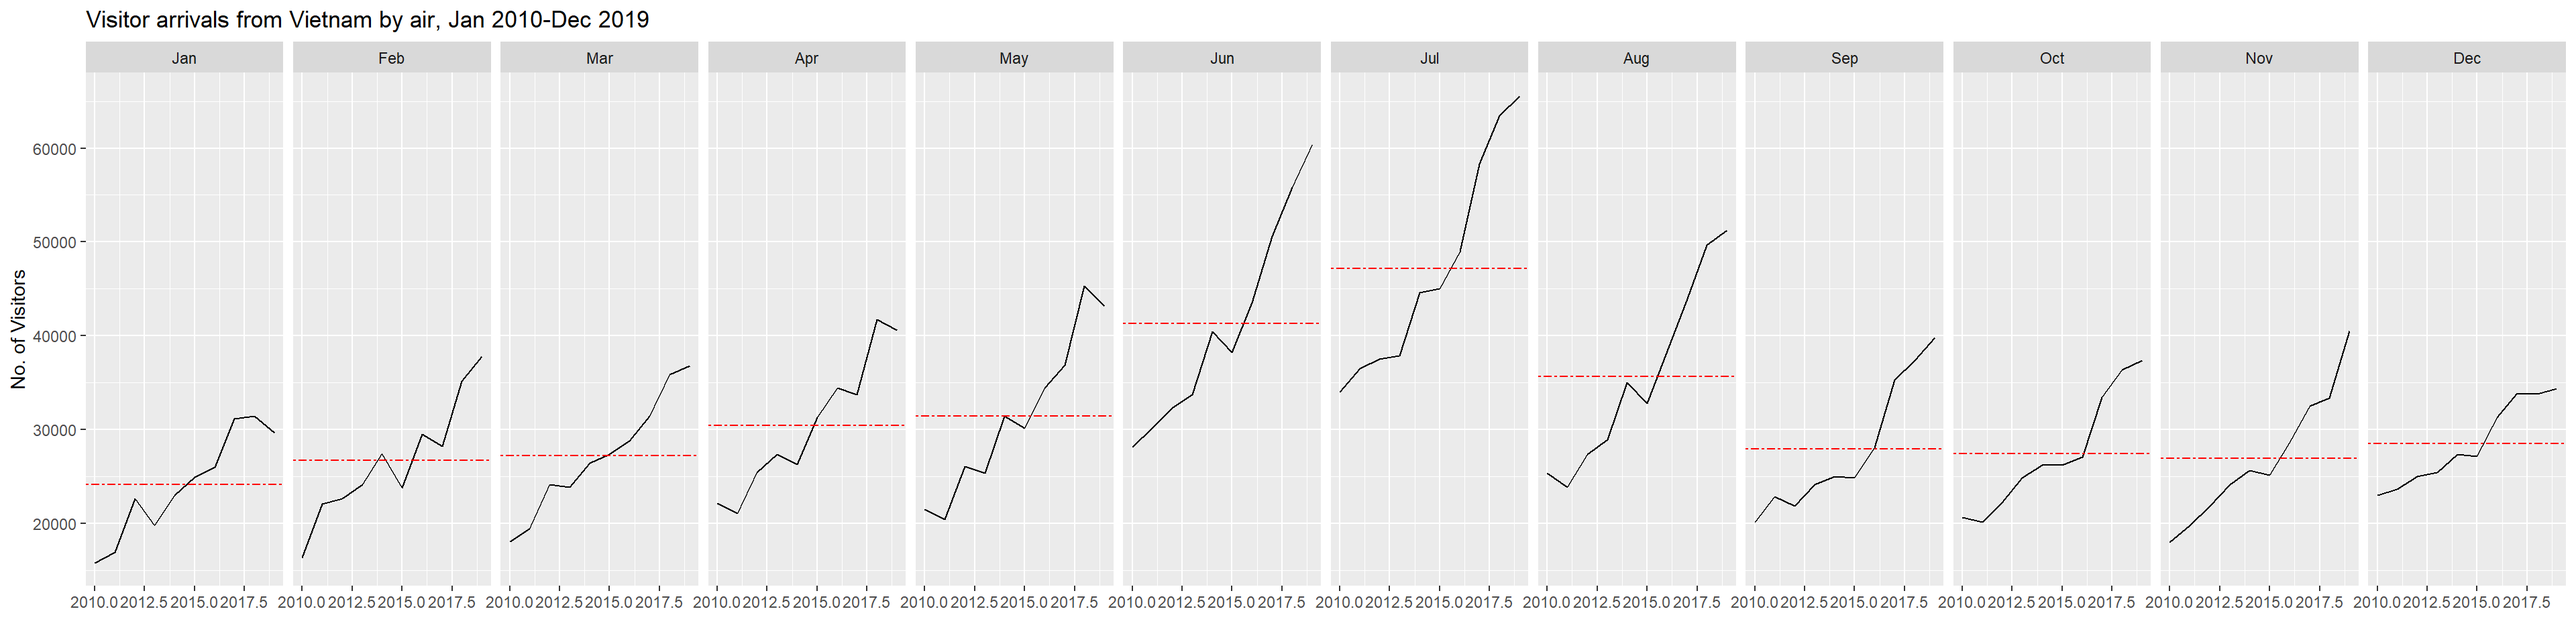
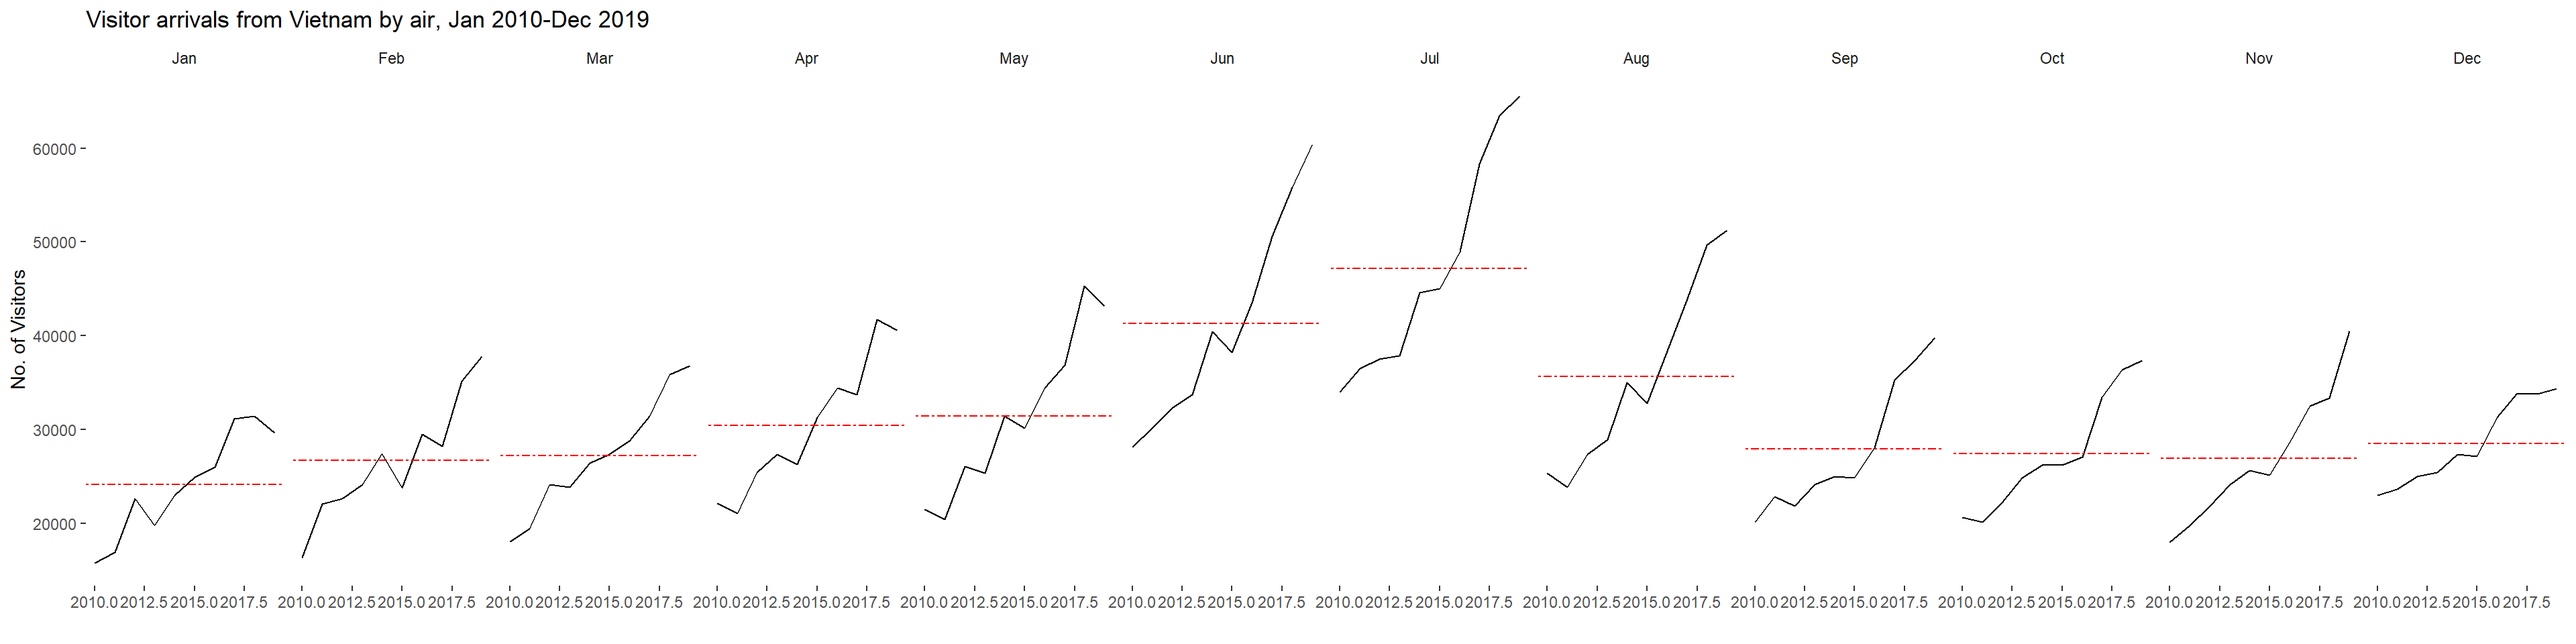
Edited graph and text

Changed region(s): [[0.0312, 0.0625, 1.0, 0.125]]

diff --git a/_site/Hands-on_Ex/Hands-on_Ex8/Hands-on_Ex8.html b/_site/Hands-on_Ex/Hands-on_Ex8/Hands-on_Ex8.html
@@ -554,7 +554,7 @@ Note
 <span id="cb8-4"><a href="#cb8-4" aria-hidden="true" tabindex="-1"></a>  <span class="fu">arrange</span>(<span class="fu">desc</span>(n))</span></code></pre></div><button title="Copy to Clipboard" class="code-copy-button"><i class="bi"></i></button></div>
 </div>
 <p>Step 2: Preparing the tidy data frame</p>
-<p>In this step, you are required to extract the attack records of the top 4 countries from <em>attacks</em> data frame and save the data in a new tibble data frame (i.e.&nbsp;<em>top4_attacks</em>).</p>
+<p>In this step, you are required to extract the attack records of the top 4 countries from attacks data frame and save the data in a new tibble data frame (i.e.&nbsp;top4_attacks).</p>
 <div class="cell">
 <div class="code-copy-outer-scaffold"><div class="sourceCode cell-code" id="cb9"><pre class="sourceCode r code-with-copy"><code class="sourceCode r"><span id="cb9-1"><a href="#cb9-1" aria-hidden="true" tabindex="-1"></a>top4 <span class="ot">&lt;-</span> attacks_by_country<span class="sc">$</span>source_country[<span class="dv">1</span><span class="sc">:</span><span class="dv">4</span>]</span>
 <span id="cb9-2"><a href="#cb9-2" aria-hidden="true" tabindex="-1"></a>top4_attacks <span class="ot">&lt;-</span> attacks <span class="sc">%&gt;%</span></span>
@@ -601,15 +601,15 @@ Note
 <p>In this section, you will learn how to plot a cycle plot showing the time-series patterns and trend of visitor arrivals from Vietnam programmatically by using ggplot2 functions.</p>
 <section id="step-1-data-import" class="level3">
 <h3 class="anchored" data-anchor-id="step-1-data-import">Step 1: Data Import</h3>
-<p>For the purpose of this hands-on exercise, <em>arrivals_by_air.xlsx</em> will be used.</p>
-<p>The code chunk below imports <em>arrivals_by_air.xlsx</em> by using <code>read_excel()</code> of <strong>readxl</strong> package and save it as a tibble data frame called <em>air</em>.</p>
+<p>For the purpose of this hands-on exercise, arrivals_by_air.xlsx will be used.</p>
+<p>The code chunk below imports arrivals_by_air.xlsx by using <code>read_excel()</code> of readxl package and save it as a tibble data frame called air.</p>
 <div class="cell">
 <div class="code-copy-outer-scaffold"><div class="sourceCode cell-code" id="cb11"><pre class="sourceCode r code-with-copy"><code class="sourceCode r"><span id="cb11-1"><a href="#cb11-1" aria-hidden="true" tabindex="-1"></a>air <span class="ot">&lt;-</span> <span class="fu">read_excel</span>(<span class="st">"data/arrivals_by_air.xlsx"</span>)</span></code></pre></div><button title="Copy to Clipboard" class="code-copy-button"><i class="bi"></i></button></div>
 </div>
 </section>
 <section id="step-2-deriving-month-and-year-fields" class="level3">
 <h3 class="anchored" data-anchor-id="step-2-deriving-month-and-year-fields">Step 2: Deriving month and year fields</h3>
-<p>Next, two new fields called <em>month</em> and <em>year</em> are derived from <em>Month-Year</em> field.</p>
+<p>Next, two new fields called <code>month</code> and <code>year</code> are derived from <code>Month-Year</code> field.</p>
 <div class="cell">
 <div class="code-copy-outer-scaffold"><div class="sourceCode cell-code" id="cb12"><pre class="sourceCode r code-with-copy"><code class="sourceCode r"><span id="cb12-1"><a href="#cb12-1" aria-hidden="true" tabindex="-1"></a>air<span class="sc">$</span>month <span class="ot">&lt;-</span> <span class="fu">factor</span>(<span class="fu">month</span>(air<span class="sc">$</span><span class="st">`</span><span class="at">Month-Year</span><span class="st">`</span>),</span>
 <span id="cb12-2"><a href="#cb12-2" aria-hidden="true" tabindex="-1"></a>                    <span class="at">levels=</span><span class="dv">1</span><span class="sc">:</span><span class="dv">12</span>,</span>
@@ -631,7 +631,7 @@ Note
 </section>
 <section id="step-5-computing-year-average-arrivals-by-month" class="level3">
 <h3 class="anchored" data-anchor-id="step-5-computing-year-average-arrivals-by-month">Step 5: Computing year average arrivals by month</h3>
-<p>The code chunk below uses <code>group_by()</code> and <code>summarise()</code> of <strong>dplyr</strong> to compute year average arrivals by month.</p>
+<p>The code chunk below uses <code>group_by()</code> and <code>summarise()</code> of dplyr to compute year average arrivals by month.</p>
 <div class="cell">
 <div class="code-copy-outer-scaffold"><div class="sourceCode cell-code" id="cb14"><pre class="sourceCode r code-with-copy"><code class="sourceCode r"><span id="cb14-1"><a href="#cb14-1" aria-hidden="true" tabindex="-1"></a>hline.data <span class="ot">&lt;-</span> Vietnam <span class="sc">%&gt;%</span></span>
 <span id="cb14-2"><a href="#cb14-2" aria-hidden="true" tabindex="-1"></a>  <span class="fu">group_by</span>(month) <span class="sc">%&gt;%</span></span>
@@ -657,7 +657,8 @@ Note
 <span id="cb15-13"><a href="#cb15-13" aria-hidden="true" tabindex="-1"></a>  <span class="fu">labs</span>(<span class="at">axis.text.x =</span> <span class="fu">element_blank</span>(),</span>
 <span id="cb15-14"><a href="#cb15-14" aria-hidden="true" tabindex="-1"></a>       <span class="at">title =</span> <span class="st">"Visitor arrivals from Vietnam by air, Jan 2010-Dec 2019"</span>) <span class="sc">+</span></span>
 <span id="cb15-15"><a href="#cb15-15" aria-hidden="true" tabindex="-1"></a>  <span class="fu">xlab</span>(<span class="st">""</span>) <span class="sc">+</span></span>
-<span id="cb15-16"><a href="#cb15-16" aria-hidden="true" tabindex="-1"></a>  <span class="fu">ylab</span>(<span class="st">"No. of Visitors"</span>)</span></code></pre></div><button title="Copy to Clipboard" class="code-copy-button"><i class="bi"></i></button></div>
+<span id="cb15-16"><a href="#cb15-16" aria-hidden="true" tabindex="-1"></a>  <span class="fu">ylab</span>(<span class="st">"No. of Visitors"</span>) <span class="sc">+</span></span>
+<span id="cb15-17"><a href="#cb15-17" aria-hidden="true" tabindex="-1"></a>  <span class="fu">theme_tufte</span>(<span class="at">base_family =</span> <span class="st">"Helvetica"</span>)</span></code></pre></div><button title="Copy to Clipboard" class="code-copy-button"><i class="bi"></i></button></div>
 <div class="cell-output-display page-columns page-full">
 <div class="page-columns page-full">
 <figure class="figure page-columns page-full">
@@ -671,7 +672,7 @@ Note
 <section id="plotting-slopegraph" class="level2">
 <h2 class="anchored" data-anchor-id="plotting-slopegraph">Plotting Slopegraph</h2>
 <p>In this section you will learn how to plot a <a href="https://www.storytellingwithdata.com/blog/2020/7/27/what-is-a-slopegraph">slopegraph</a> by using R.</p>
-<p>Before getting start, make sure that <strong>CGPfunctions</strong> has been installed and loaded onto R environment. Then, refer to <a href="https://cran.r-project.org/web/packages/CGPfunctions/vignettes/Using-newggslopegraph.html">Using newggslopegraph</a> to learn more about the function. Lastly, read more about <code>newggslopegraph()</code> and its arguments by referring to this <a href="https://www.rdocumentation.org/packages/CGPfunctions/versions/0.6.3/topics/newggslopegraph">link</a>.</p>
+<p>Before getting start, make sure that CGPfunctions has been installed and loaded onto R environment. Then, refer to <a href="https://cran.r-project.org/web/packages/CGPfunctions/vignettes/Using-newggslopegraph.html">Using newggslopegraph</a> to learn more about the function. Lastly, read more about <code>newggslopegraph()</code> and its arguments by referring to this <a href="https://www.rdocumentation.org/packages/CGPfunctions/versions/0.6.3/topics/newggslopegraph">link</a>.</p>
 <section id="step-1-data-import-1" class="level3">
 <h3 class="anchored" data-anchor-id="step-1-data-import-1">Step 1: Data Import</h3>
 <p>Import the rice data set into R environment by using the code chunk below.</p>
@@ -709,7 +710,7 @@ Note
 </div>
 <div class="callout-body-container callout-body">
 <p>Thing to learn from the code chunk above:</p>
-<p>For effective data visualization design, <code>factor()</code> is used convert the value type of <em>Year</em> field from numeric to factor.</p>
+<p>For effective data visualization design, <code>factor()</code> is used convert the value type of <code>Year</code> field from numeric to factor.</p>
 </div>
 </div>
 
